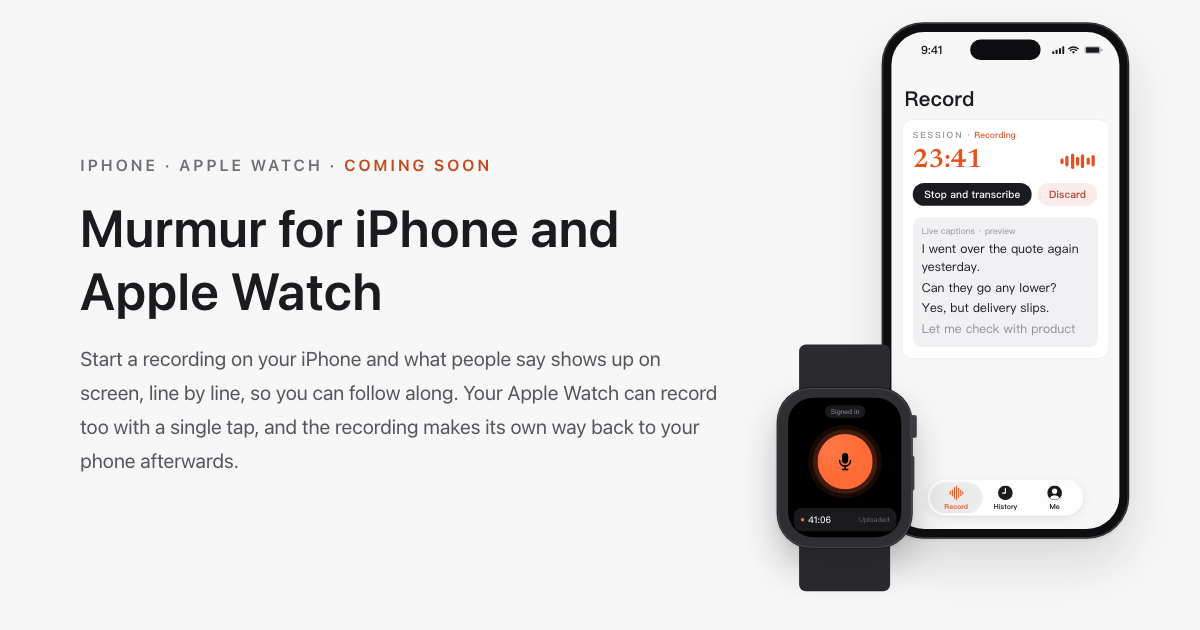
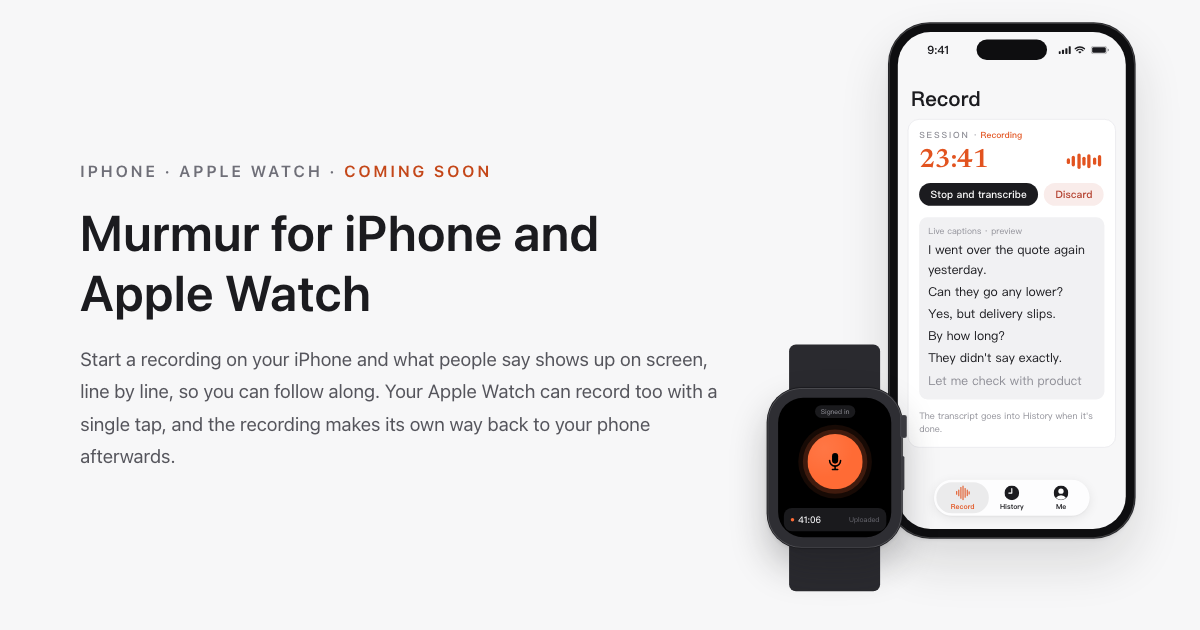
手机与手表页:首屏手机下半屏排满,手表让开字幕卡;og 图重出(review U-04)
为什么:首屏手机的字幕卡底到标签栏之间约 170px 什么都没有,手机看着像没画完,og 分享图里同一块也是空的。

改了什么:字幕多两句(还是那段谈报价的对话,不标说话人)、行高 22 → 24px;卡片底下加一行 App 录音页原文
「转写完自动落进历史。」/ "The transcript goes into History when it's done."。空白降到屏高 13%(中)/ 6.4%(英)。
字幕卡变高以后手表表壳会压到卡片左沿,设备台 420 → 440 宽(手机左移出 20px 余量),手表位置不变;
窄屏缩放 .8 → .76、.66 → .63。无头检查新增「卡片底到标签栏的空白 ≤ 屏高 15%」与「手表不压字幕卡」两条,
中英 × 1280 / 768 / 375(加中文 320)全绿。shots/mobile/og-zh.png、og-en.png 用新首屏重出。

diff --git a/mobile/mobile.css b/mobile/mobile.css
@@ -18,7 +18,7 @@
 /* ── 首屏 ──
    ⛔ .m-hero 不许写 padding 简写:会把 .wrap 的左右留白清零。 */
 .m-hero {
-  padding-top: 56px; display: grid; grid-template-columns: minmax(0, 1fr) 420px;
+  padding-top: 56px; display: grid; grid-template-columns: minmax(0, 1fr) 440px;
   gap: 40px 56px; align-items: center;
 }
 .m-hero h1 { font-size: clamp(30px, 4.2vw, 44px); font-weight: 600; line-height: 1.25; letter-spacing: .01em; }
@@ -26,11 +26,11 @@
 .m-cta { margin-top: 30px; display: flex; gap: 14px; flex-wrap: wrap; }
 .m-soon { color: var(--coral-ink); }
 
-/* 设备台:按 420×712 设计,窄屏整块缩(--s);盒子按缩后的尺寸占位,横向不溢出。
-   宽 420:手机靠右(左边缘 x=120,底栏从 x=175 起),手表表壳 + 表冠到 x≈166,两台同框但手表不压手机底栏 */
-.m-stage-box { --s: 1; width: calc(420px * var(--s)); margin: 0 auto; }
+/* 设备台:按 440×712 设计(手表压在手机左下,不压字幕卡、不压底栏),窄屏整块缩(--s);盒子按缩后的尺寸占位,横向不溢出。
+   宽 440:手机靠右(左边缘 x=140,字幕卡从 x=163、底栏从 x=195 起),手表表壳 + 表冠到 x≈162,两台同框但手表不压字幕卡和底栏 */
+.m-stage-box { --s: 1; width: calc(440px * var(--s)); margin: 0 auto; }
 .m-stage-in { height: calc(712px * var(--s)); }
-.m-stage { position: relative; width: 420px; height: 712px; transform: scale(var(--s)); transform-origin: 0 0; margin: 0; }
+.m-stage { position: relative; width: 440px; height: 712px; transform: scale(var(--s)); transform-origin: 0 0; margin: 0; }
 .m-stage-cap {
   margin-top: 12px; text-align: center; font-family: "IBM Plex Mono", ui-monospace, monospace;
   font-size: 12px; color: var(--faint); letter-spacing: .02em;
@@ -77,9 +77,11 @@
 .hp-discard { background: #F9ECEA; color: #B3402E; }
 .hp-cap { margin-top: 14px; background: #F1F1F3; border-radius: 10px; padding: 10px 11px 11px; }
 .hp-clabel { font-size: 10.5px; line-height: 13px; color: #8E8E96; margin-bottom: 5px; }
-.hp-cap p:not(.hp-clabel) { font-size: 15px; line-height: 22px; }
+.hp-cap p:not(.hp-clabel) { font-size: 15px; line-height: 24px; }
 .hp-cap p + p:not(.hp-clabel) { margin-top: 3px; }
 .hp-cap .hp-vol { color: #8E8E96; }
+/* 卡片底下一行小字(照 App 录音页原文),和多出的两句字幕一起把下半屏排满(review U-04:原来卡片底到标签栏空着约 170px) */
+.hp-foot { font-size: 11px; line-height: 16px; color: #8E8E96; margin-top: 12px; }
 .hp-tabbar {
   position: absolute; left: 44px; top: 546px; width: 190px; height: 44px; border-radius: 22px;
   background: #FDFDFE; box-shadow: 0 3px 13px rgba(0,0,0,.08), 0 1px 2px rgba(0,0,0,.04);
@@ -206,7 +208,7 @@
 @media (max-width: 600px) {
   .m-hero { padding-top: 32px; }
   .m-hero .sub { font-size: 16px; }
-  .m-stage-box { --s: .8; }
+  .m-stage-box { --s: .76; }
   .m-sec { margin-top: 64px; }
   .m-line > li { grid-template-columns: 112px minmax(0, 1fr); gap: 0 16px; }
   .m-line > li .mc { height: 104px; }
@@ -216,7 +218,7 @@
   .m-outro { padding-top: 44px; }
 }
 @media (max-width: 374px) {
-  .m-stage-box { --s: .66; }
+  .m-stage-box { --s: .63; }
 }
 
 /* 屏幕阅读器才读的一行(演示的状态播报) */

diff --git a/mobile/index.html b/mobile/index.html
@@ -76,8 +76,11 @@
                 <p>报价昨天又跟他们对了一遍。</p>
                 <p>那还能再往下谈吗?</p>
                 <p>能谈,但交货要往后推。</p>
+                <p>推多久?</p>
+                <p>他们说还要再等等。</p>
                 <p class="hp-vol">我先问问产品那边等不等得了</p>
               </div>
+              <p class="hp-foot">转写完自动落进历史。</p>
             </div>
             <div class="hp-tabbar"><span class="hp-tabsel"></span><span class="hp-tab t0"><svg width="18" height="18" viewBox="0 0 70 70"><g stroke="currentColor" stroke-width="5" stroke-linecap="round"><line x1="7" y1="29" x2="7" y2="41"/><line x1="17" y1="21" x2="17" y2="49"/><line x1="27" y1="10" x2="27" y2="60"/><line x1="37" y1="2" x2="37" y2="68"/><line x1="47" y1="14" x2="47" y2="56"/><line x1="57" y1="22" x2="57" y2="48"/><line x1="66" y1="30" x2="66" y2="40"/></g></svg><b>长录音</b></span><span class="hp-tab t1"><svg width="18" height="18" viewBox="0 0 70 70"><circle cx="35" cy="35" r="35" fill="currentColor"/><path d="M35 15 V36 H21" fill="none" stroke="#fff" stroke-width="5.5" stroke-linecap="round" stroke-linejoin="round"/></svg><b>历史</b></span><span class="hp-tab t2"><svg width="18" height="18" viewBox="0 0 70 70"><circle cx="35" cy="35" r="35" fill="currentColor"/><circle cx="35" cy="27" r="12.5" fill="#fff"/><path d="M12 58 a25 20 0 0 1 46 0 a33 33 0 0 1 -46 0z" fill="#fff"/></svg><b>我的</b></span></div>
           </div>

diff --git a/en/mobile/index.html b/en/mobile/index.html
@@ -76,8 +76,11 @@
                 <p>I went over the quote again yesterday.</p>
                 <p>Can they go any lower?</p>
                 <p>Yes, but delivery slips.</p>
+                <p>By how long?</p>
+                <p>They didn't say exactly.</p>
                 <p class="hp-vol">Let me check with product</p>
               </div>
+              <p class="hp-foot">The transcript goes into History when it's done.</p>
             </div>
             <div class="hp-tabbar"><span class="hp-tabsel"></span><span class="hp-tab t0"><svg width="18" height="18" viewBox="0 0 70 70"><g stroke="currentColor" stroke-width="5" stroke-linecap="round"><line x1="7" y1="29" x2="7" y2="41"/><line x1="17" y1="21" x2="17" y2="49"/><line x1="27" y1="10" x2="27" y2="60"/><line x1="37" y1="2" x2="37" y2="68"/><line x1="47" y1="14" x2="47" y2="56"/><line x1="57" y1="22" x2="57" y2="48"/><line x1="66" y1="30" x2="66" y2="40"/></g></svg><b>Record</b></span><span class="hp-tab t1"><svg width="18" height="18" viewBox="0 0 70 70"><circle cx="35" cy="35" r="35" fill="currentColor"/><path d="M35 15 V36 H21" fill="none" stroke="#fff" stroke-width="5.5" stroke-linecap="round" stroke-linejoin="round"/></svg><b>History</b></span><span class="hp-tab t2"><svg width="18" height="18" viewBox="0 0 70 70"><circle cx="35" cy="35" r="35" fill="currentColor"/><circle cx="35" cy="27" r="12.5" fill="#fff"/><path d="M12 58 a25 20 0 0 1 46 0 a33 33 0 0 1 -46 0z" fill="#fff"/></svg><b>Me</b></span></div>
           </div>
